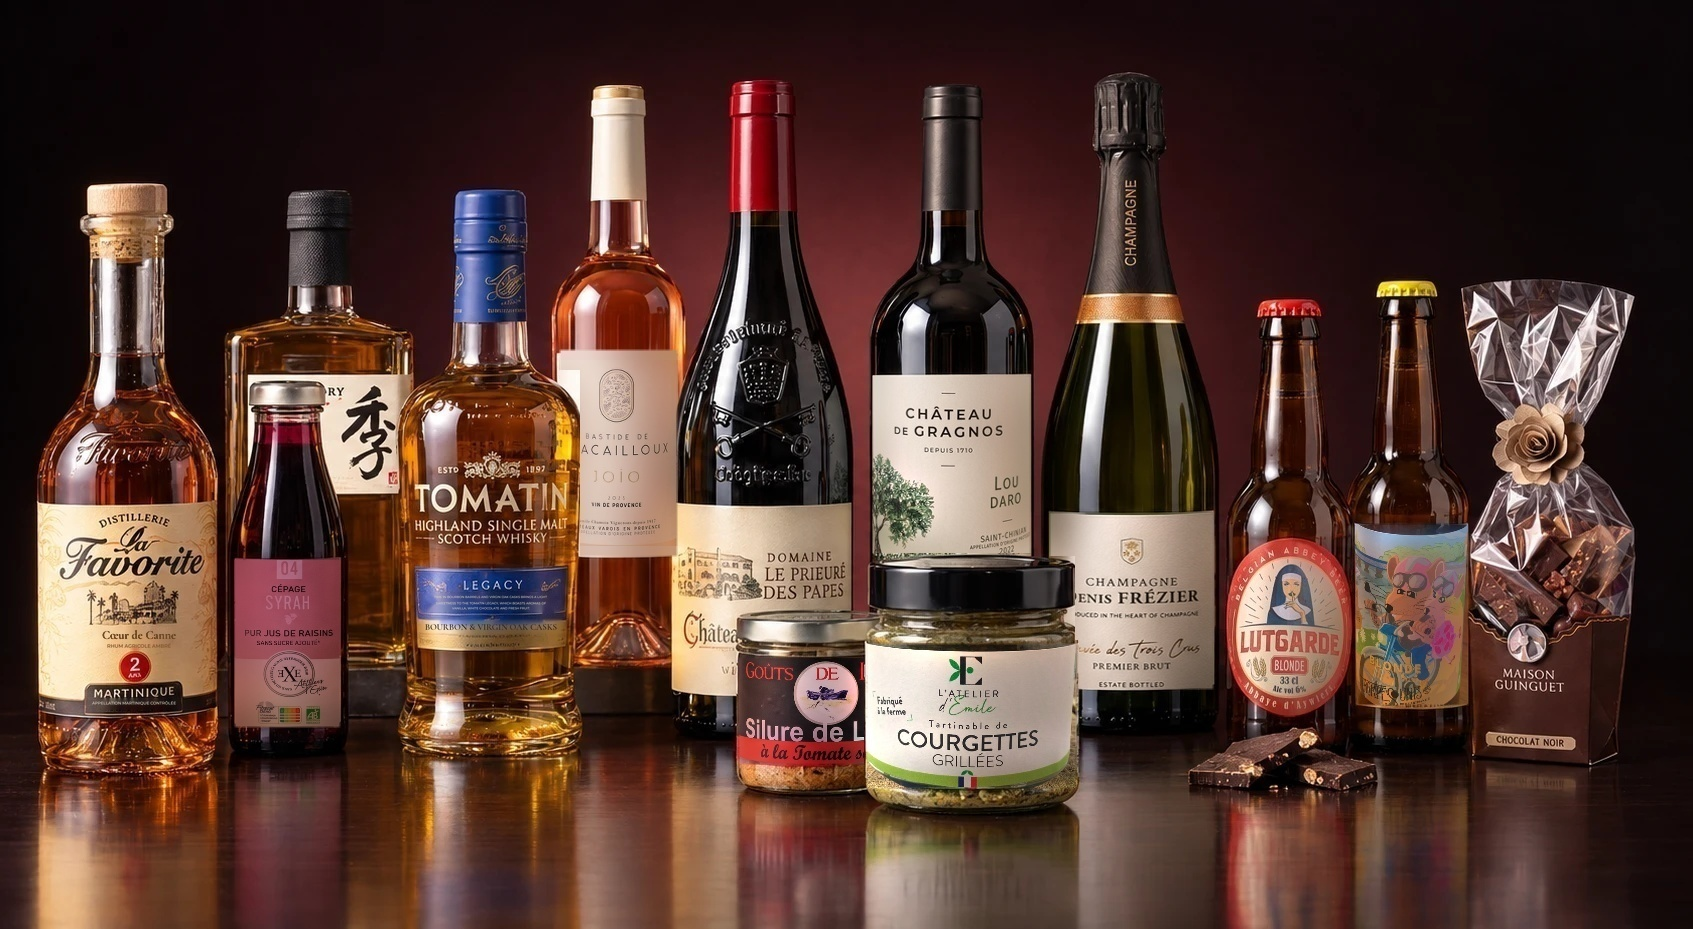
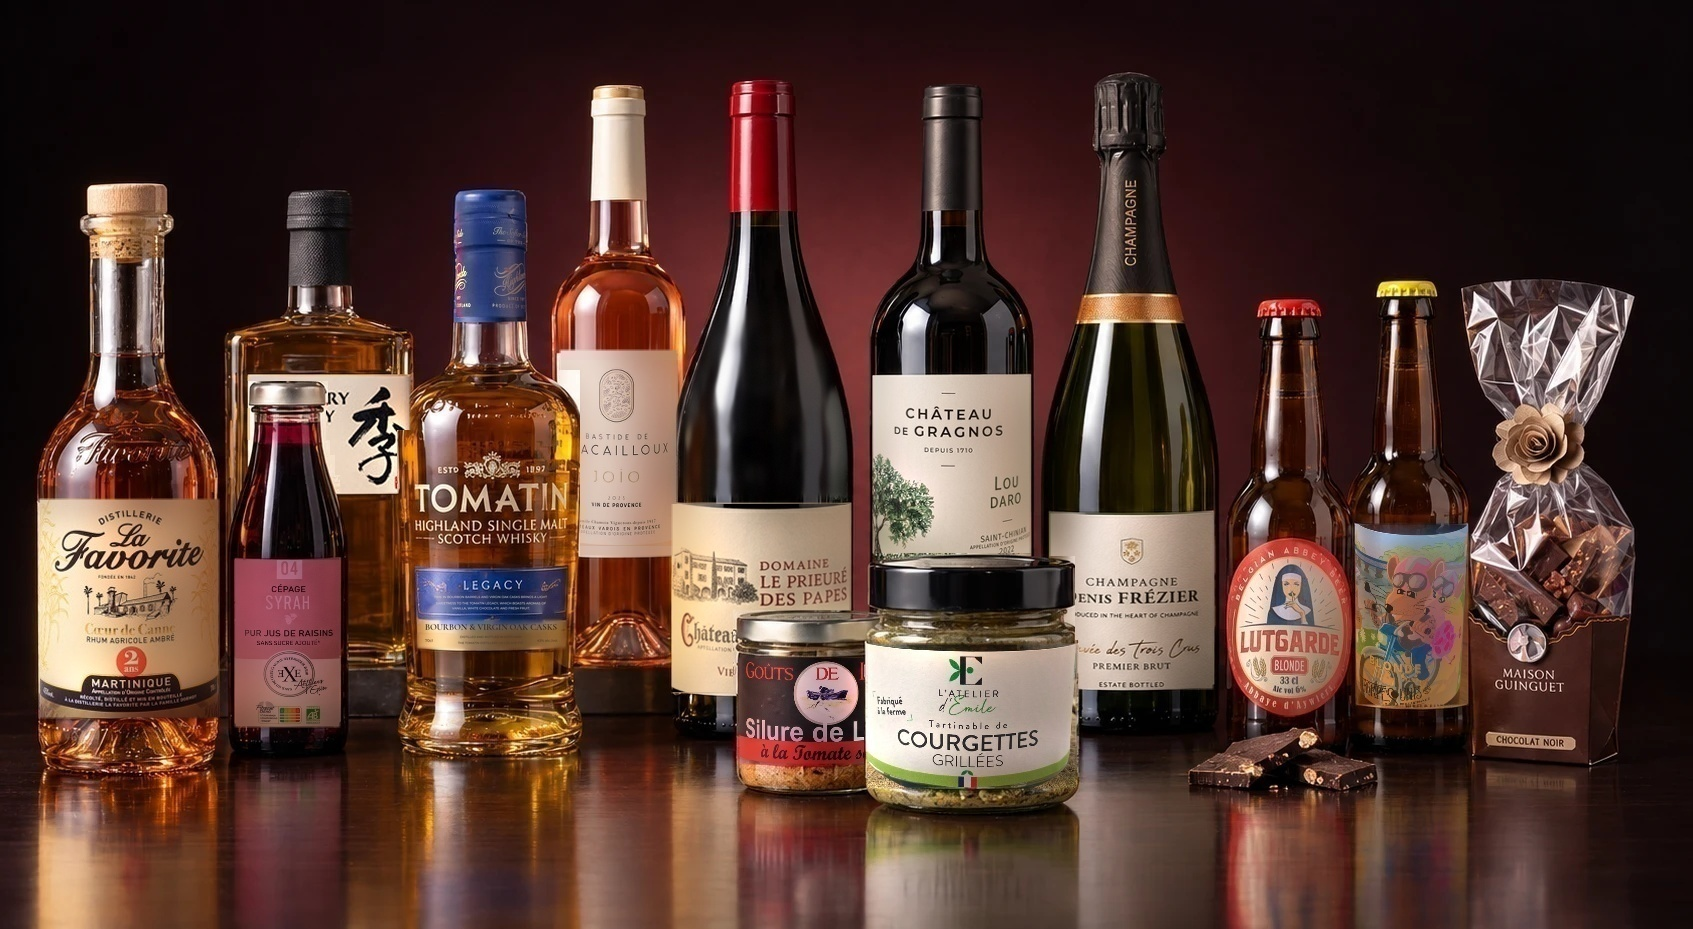
Photo v15 : vraies étiquettes La Favorite, Toki, Châteauneuf et capsule Tomatin, relief inventé effacé
Claude-Session: https://claude.ai/code/session_01MhDWXdDg6yxkfVQXWRp9UB

diff --git a/panneau/tools/corrige_textes_photo.py b/panneau/tools/corrige_textes_photo.py
@@ -192,19 +192,21 @@ CORRECTIONS_V14 = [
     dict(zone=(1782, 828, 1858, 845), mode='clair', texte='GUINGUET', police='serif', poids='Medium', x=1820, y=836.7, cap=9.0, align='c', couleur=(226, 212, 196)),
 ]
 
-# Photo affinée par ChatGPT (resultat_chatgpt_v15.png, 1693 x 929) : Gragnos, Frézier, Blacailloux, Lutgarde,
-# Trompe Souris, courgettes et Silure sont recollés en entier (remplace_etiquette.py) ; restent ces textes.
+# Photo affinée par ChatGPT (resultat_chatgpt_v15.png, 1693 x 929) : La Favorite, Syrah, Toki, Blacailloux,
+# Châteauneuf, Gragnos, Frézier, Lutgarde, Trompe Souris, Silure et courgettes sont recollés en entier
+# (remplace_etiquette.py) ; restent les textes du Tomatin.
 CORRECTIONS_V15 = [
-    # Rhum La Favorite
-    dict(zone=(92, 627, 184, 642), mode='sombre', texte='Cœur de Canne', police='serif', poids='Bold', x=139, y=634.5, cap=7.4, align='c', gras=1.6),
-    dict(zone=(92, 642, 186, 650), mode='sombre', texte='RHUM AGRICOLE AMBRÉ', police='sans', poids='SemiBold', x=139, y=646, cap=3.4, align='c'),
-    dict(zone=(98, 698, 172, 710), mode='clair', texte="APPELLATION MARTINIQUE CONTRÔLÉE", police='sans', poids='Medium', x=134.5, y=703.5, cap=2.8, align='c', couleur=(226, 218, 204)),
     # Whisky Tomatin Legacy : bandeau bleu (texte clair) et bandeau doré
     dict(zone=(420, 593, 560, 612), mode='clair', texte=None, cap=3),
     dict(texte='TIME IN BOURBON BARRELS AND VIRGIN OAK CASKS BRINGS A LIGHT', police='sans', poids='Medium', x=491, y=597.5, cap=2.2, align='c', couleur=(220, 214, 200)),
     dict(texte='SWEETNESS TO THE TOMATIN LEGACY, WHICH BOASTS AROMAS OF', police='sans', poids='Medium', x=491, y=603, cap=2.2, align='c', couleur=(220, 214, 200)),
     dict(texte='VANILLA, WHITE CHOCOLATE AND FRESH FRUIT.', police='sans', poids='Medium', x=491, y=608.5, cap=2.2, align='c', couleur=(220, 214, 200)),
     dict(zone=(420, 620, 562, 634), mode='sombre', plein=True, texte='BOURBON & VIRGIN OAK CASKS', police='serif', poids='SemiBold', x=491, y=627, cap=5.4, align='c', couleur=(52, 40, 28)),
+    dict(zone=(417, 633, 566, 649), mode='sombre', plein=True, texte=None, cap=3),
+    dict(texte='DISTILLED AND BOTTLED IN SCOTLAND', police='sans', poids='Medium', x=491, y=637, cap=2.1, align='c', couleur=(70, 56, 40)),
+    dict(texte='THE TOMATIN DISTILLERY CO LTD IV13 7YT', police='sans', poids='Medium', x=491, y=643.5, cap=2.1, align='c', couleur=(70, 56, 40)),
+    dict(texte='70cl', police='sans', poids='Medium', x=421, y=640.5, cap=2.6, align='g', couleur=(70, 56, 40)),
+    dict(texte='43% alc./vol.', police='sans', poids='Medium', x=562, y=640.5, cap=2.4, align='d', couleur=(70, 56, 40)),
 ]
 
 PHOTOS = {'v8': (CORRECTIONS_V8, TOMATE_V8), 'v10': (CORRECTIONS_V10, TOMATE_V10), 'v12': (CORRECTIONS_V12, None), 'v14': (CORRECTIONS_V14, None), 'v15': (CORRECTIONS_V15, None)}

diff --git a/panneau/tools/efface_relief.py b/panneau/tools/efface_relief.py
@@ -1,0 +1,41 @@
+"""Efface un motif en relief inventé sur le verre d'une bouteille (blason, texte gravé) : le verre redevient lisse.
+
+Dans un polygone qui suit l'intérieur de la bouteille, chaque pixel est remplacé par la médiane d'une
+fenêtre haute et étroite : les fins traits du relief disparaissent, les longs reflets verticaux du verre
+restent. Bords du polygone fondus, grain léger rajouté.
+
+Usage (depuis panneau/) :
+    python3 tools/efface_relief.py entree.jpg sortie.jpg x1,y1 x2,y2 x3,y3 ...   (polygone, au moins 3 points)
+"""
+import sys
+
+import cv2
+import numpy as np
+from PIL import Image
+from scipy.ndimage import median_filter
+
+
+def main():
+    entree, sortie = sys.argv[1], sys.argv[2]
+    poly = np.array([list(map(int, p.split(','))) for p in sys.argv[3:]], np.int32)
+    img = np.array(Image.open(entree).convert('RGB'))
+    H, W = img.shape[:2]
+    dedans = np.zeros((H, W), np.uint8)
+    cv2.fillPoly(dedans, [poly], 255)
+
+    x0, y0, w, h = cv2.boundingRect(poly)
+    m = 20
+    X0, Y0, X1, Y1 = max(0, x0 - m), max(0, y0 - m), min(W, x0 + w + m), min(H, y0 + h + m)
+    zone = img[Y0:Y1, X0:X1].astype(np.float32)
+    lisse = np.stack([median_filter(zone[..., c], size=(31, 9)) for c in range(3)], axis=-1)
+    lisse = cv2.GaussianBlur(lisse, (0, 0), sigmaX=1.0, sigmaY=3.0)
+    lisse += np.random.default_rng(3).normal(0, 1.2, lisse.shape).astype(np.float32)
+    a = cv2.GaussianBlur(dedans[Y0:Y1, X0:X1].astype(np.float32) / 255, (0, 0), 2.5)[..., None]
+    out = img.copy()
+    out[Y0:Y1, X0:X1] = (zone * (1 - a) + lisse * a).clip(0, 255).astype(np.uint8)
+    Image.fromarray(out).save(sortie, quality=95)
+    print(sortie)
+
+
+if __name__ == '__main__':
+    main()
